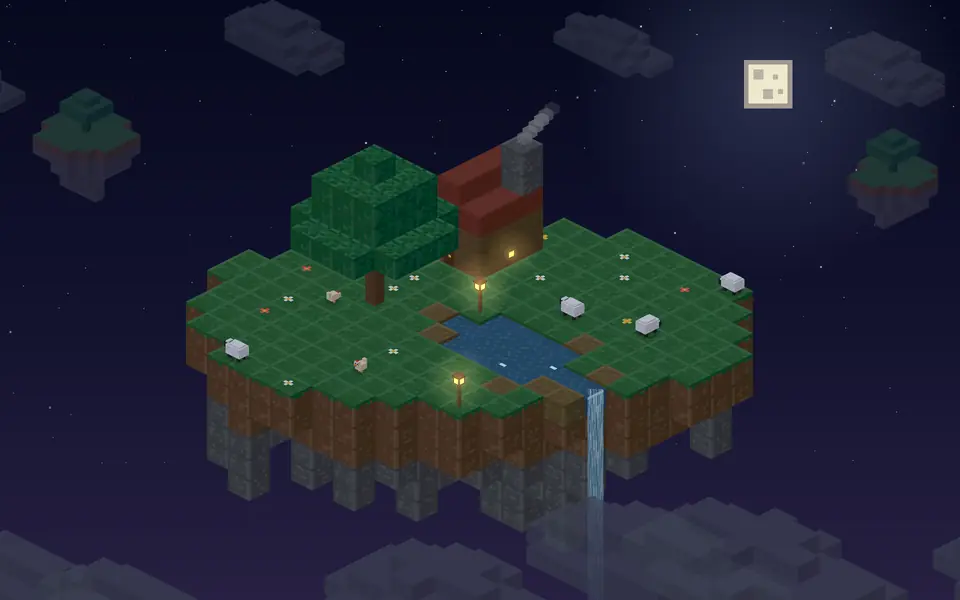
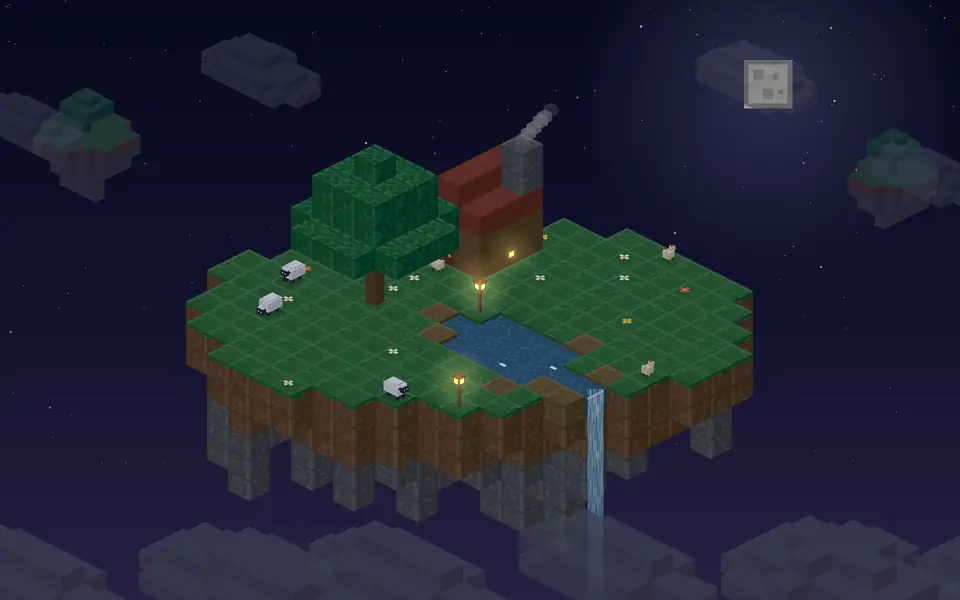
Blocks: the picker pictures redrawn; what the harness's painted time measures
Each scene's preview is drawn again from this build: Block Valley's shows the village, the field
and the moonlit peaks. The harness says what its painted time is: SwiftShader's software
rasterizer plus the read back itself, nothing a GPU does.

Claude-Session: https://claude.ai/code/session_01BLfTFn7RkTLtbpWjFPCzxo

diff --git a/packages/blocks/harness/shoot.ts b/packages/blocks/harness/shoot.ts
@@ -9,7 +9,9 @@
 // made small. --look writes pictures of each scene, dark and light, 1440×900, to --out. --perf times
 // 600 draws of each scene at 1440×900 at 1× and 1280×800 at 2×, dark and light, and prints the median
 // and the 90th percentile of the draw, of the frame (its steps and its draw), and of the draw made to
-// paint (read back: on SwiftShader, the software rasterizer's time too).
+// paint. That last is SwiftShader's software rasterizer at work, plus the read back itself (here, an
+// unchanged canvas the window's size takes 14 ms to read back in 2D and 31 ms in WebGL2 at 1440×900
+// at 1×): a measure of nothing a GPU does, kept to compare one build with the next.
 import { chromium, type Page } from "@playwright/test";
 import { execFileSync } from "node:child_process";
 import { mkdirSync } from "node:fs";
